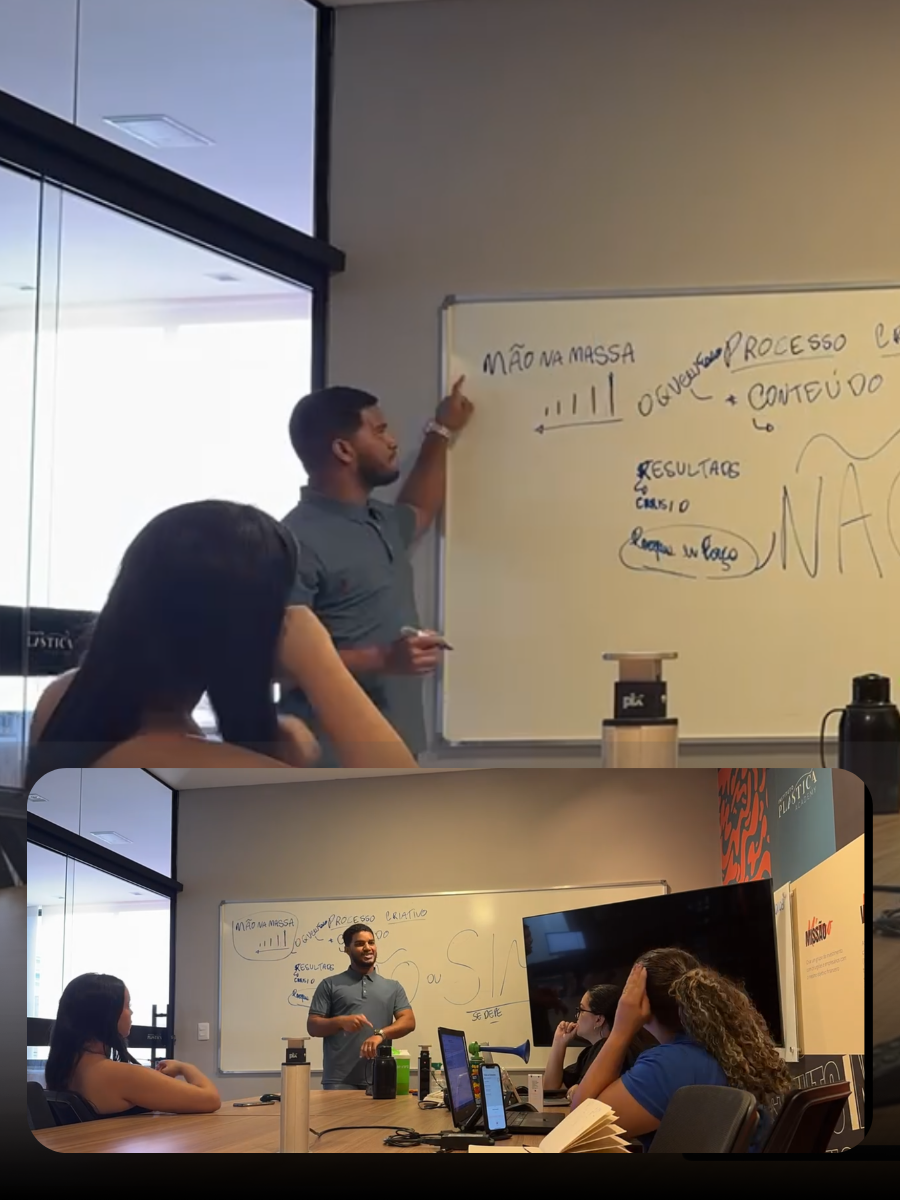
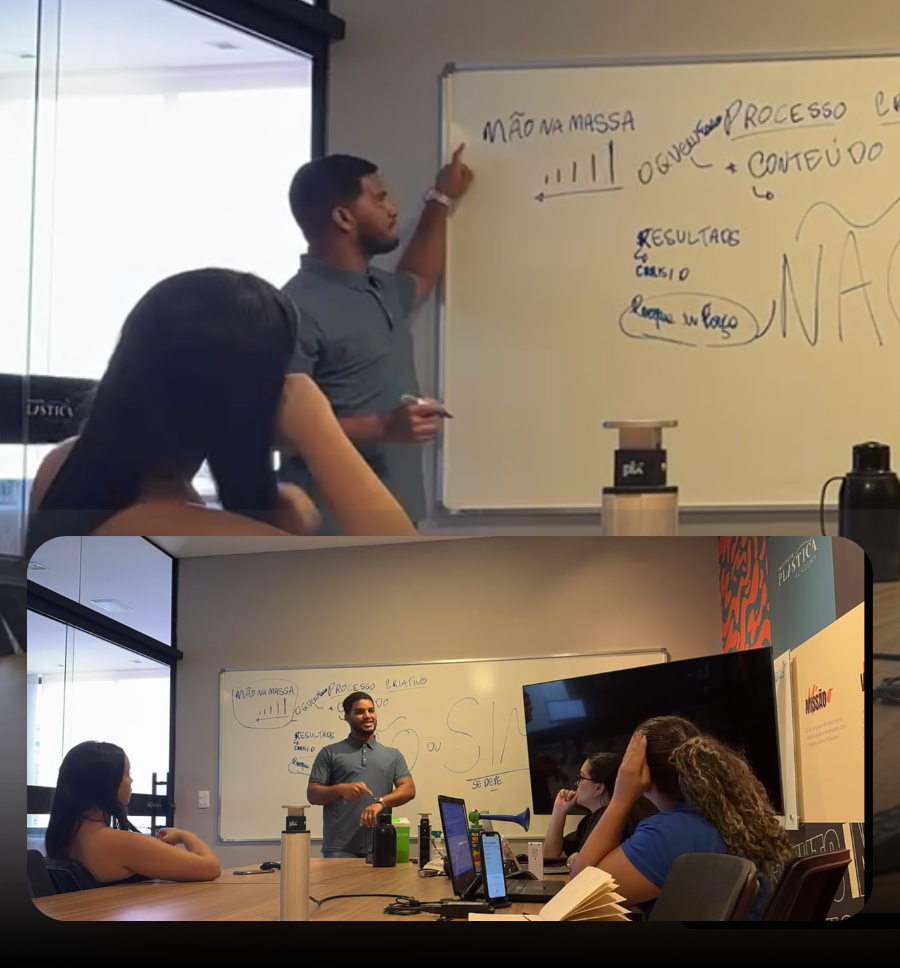
style: Ajusta CTA Final para fundo claro e atualiza foto de planejamento

diff --git a/index.html b/index.html
@@ -41,7 +41,9 @@
         <div class="container hero-container">
             <div class="hero-top-text fade-in-up">
                 <h1>Meu trabalho vai além de postar conteúdo.</h1>
-                <p>Sou Robson Reis, especialista em crescimento digital para médicos. Nos últimos +2 anos atuando no mercado médico, construí estratégias de conteúdo, lançamentos e posicionamento que geraram milhões de visualizações e múltiplos 6 dígitos.</p>
+                <p>Sou Robson Reis, especialista em crescimento digital para médicos. Nos últimos +2 anos atuando no
+                    mercado médico, construí estratégias de conteúdo, lançamentos e posicionamento que geraram milhões
+                    de visualizações e múltiplos 6 dígitos.</p>
                 <a href="#casos" class="btn btn-white">Quero ver os resultados <span class="arrow-circle">→</span></a>
             </div>
 
@@ -241,23 +243,28 @@
                 <!-- Estudos de Caso - Definidos uma única vez (Clonagem via JS para Infinite Scroll) -->
                 <div class="carousel-card" data-index="0">
                     <div class="c-bg">
-                        <img src="Fotos/printcanal.PNG" alt="YouTube Médico" style="object-fit: cover; object-position: top;">
+                        <img src="Fotos/printcanal.PNG" alt="YouTube Médico"
+                            style="object-fit: cover; object-position: top;">
                         <div class="c-overlay"></div>
                     </div>
                     <div class="c-content">
                         <h3>10M+ de Views no YouTube</h3>
-                        <p>Estratégia e gestão de conteúdo para canal médico que ultrapassou 10 milhões de visualizações. Crescimento consistente de audiência transformando o médico em referência nacional no digital.</p>
+                        <p>Estratégia e gestão de conteúdo para canal médico que ultrapassou 10 milhões de
+                            visualizações. Crescimento consistente de audiência transformando o médico em referência
+                            nacional no digital.</p>
                     </div>
                     <div class="c-arrow">→</div>
                 </div>
                 <div class="carousel-card" data-index="1">
                     <div class="c-bg">
-                        <img src="Fotos/excelene stories.png" alt="Gestão de Instagram" style="object-fit: cover; object-position: center;">
+                        <img src="Fotos/excelene stories.png" alt="Gestão de Instagram"
+                            style="object-fit: cover; object-position: center;">
                         <div class="c-overlay"></div>
                     </div>
                     <div class="c-content">
                         <h3>Gestão de Instagram</h3>
-                        <p>Gestão de Instagram com foco no que realmente importa: conteúdo que faz sentido para a paciente. Que conecta, gera identificação e transforma espectador em consulta marcada.</p>
+                        <p>Gestão de Instagram com foco no que realmente importa: conteúdo que faz sentido para a
+                            paciente. Que conecta, gera identificação e transforma espectador em consulta marcada.</p>
                     </div>
                     <div class="c-arrow">→</div>
                 </div>
@@ -268,7 +275,9 @@
                     </div>
                     <div class="c-content">
                         <h3>Direção "Casa de Plástico"</h3>
-                        <p>Dirigi o quadro "Casa de Plástico" aplicando técnicas narrativas que transformavam a jornada real da paciente em desejo de quem assistia. Gerando identificação, desejo e autoridade. Quem via, queria ser a próxima. +196 mil visualizações.</p>
+                        <p>Dirigi o quadro "Casa de Plástico" aplicando técnicas narrativas que transformavam a jornada
+                            real da paciente em desejo de quem assistia. Gerando identificação, desejo e autoridade.
+                            Quem via, queria ser a próxima. +196 mil visualizações.</p>
                     </div>
                     <div class="c-arrow">→</div>
                 </div>
@@ -279,7 +288,8 @@
                     </div>
                     <div class="c-content">
                         <h3>Lançamentos Digitais</h3>
-                        <p>Atuei na estratégia e execução de lançamentos digitais no mercado médico. Campanhas que transformaram eventos e produtos em 6 dígitos em menos de 24 horas de carrinho aberto.</p>
+                        <p>Atuei na estratégia e execução de lançamentos digitais no mercado médico. Campanhas que
+                            transformaram eventos e produtos em 6 dígitos em menos de 24 horas de carrinho aberto.</p>
                     </div>
                     <div class="c-arrow">→</div>
                 </div>
@@ -290,7 +300,9 @@
                     </div>
                     <div class="c-content">
                         <h3>Newsletter Estratégica</h3>
-                        <p>Newsletter com 2.500 aberturas semanais. Um canal ignorado pela maioria dos médicos — mas que gera os pacientes mais qualificados. Audiência proprietária que não depende do algoritmo. Resultado: pacientes fechando direto pelo e-mail.</p>
+                        <p>Newsletter com 2.500 aberturas semanais. Um canal ignorado pela maioria dos médicos — mas que
+                            gera os pacientes mais qualificados. Audiência proprietária que não depende do algoritmo.
+                            Resultado: pacientes fechando direto pelo e-mail.</p>
                     </div>
                     <div class="c-arrow">→</div>
                 </div>
@@ -301,15 +313,18 @@
                     </div>
                     <div class="c-content">
                         <h3>Cobertura de Eventos</h3>
-                        <p>Da estratégia de pré-aquecimento à cobertura em tempo real. Planejamento de conteúdo, filmagens, stories e reels ao vivo que transformavam cada evento em combustível de autoridade nas redes.</p>
+                        <p>Da estratégia de pré-aquecimento à cobertura em tempo real. Planejamento de conteúdo,
+                            filmagens, stories e reels ao vivo que transformavam cada evento em combustível de
+                            autoridade nas redes.</p>
                     </div>
                     <div class="c-arrow">→</div>
                 </div>
             </div>
-            
+
             <!-- Botão CTA Centralizado -->
             <div class="slider-cta">
-                <a href="https://wa.me/5563992609269" class="btn btn-dark-alpha rounded">Fale Comigo <span class="arrow-circle orange">→</span></a>
+                <a href="https://wa.me/5563992609269" class="btn btn-dark-alpha rounded">Fale Comigo <span
+                        class="arrow-circle orange">→</span></a>
             </div>
         </div>
     </section>
@@ -317,28 +332,35 @@
     <!-- 7. ANTES E DEPOIS (Coverflow Slider) -->
     <section class="ad-section section-beige" id="antes-depois" style="padding: var(--s-section) 0; overflow: hidden;">
         <div class="container met-header fade-in-up" style="text-align: center; max-width: 800px; margin: 0 auto;">
-            <h2 style="font-size: clamp(1.8rem, 4vw, 2.8rem);">O mesmo médico. O mesmo Instagram. A estratégia certa nos stories muda tudo.</h2>
+            <h2 style="font-size: clamp(1.8rem, 4vw, 2.8rem);">O mesmo médico. O mesmo Instagram. A estratégia certa nos
+                stories muda tudo.</h2>
         </div>
 
         <div class="coverflow-container fade-in-up delay-1">
             <!-- Intercalando Ante e Depois sequencialmente -->
-            <div class="cf-slide"><img src="Fotos/antesofc.png" alt="Antes 1"><span class="cf-badge badge-antes">Antes</span></div>
-            <div class="cf-slide"><img src="Fotos/DepoisOFC (1).png" alt="Depois 1"><span class="cf-badge badge-depois">Depois</span></div>
-            
-            <div class="cf-slide"><img src="Fotos/antesofc (1).png" alt="Antes 2"><span class="cf-badge badge-antes">Antes</span></div>
-            <div class="cf-slide"><img src="Fotos/DepoisOFC (2).png" alt="Depois 2"><span class="cf-badge badge-depois">Depois</span></div>
-            
-            <div class="cf-slide"><img src="Fotos/antesofc (2).png" alt="Antes 3"><span class="cf-badge badge-antes">Antes</span></div>
-            <div class="cf-slide"><img src="Fotos/DepoisOFC (3).png" alt="Depois 3"><span class="cf-badge badge-depois">Depois</span></div>
+            <div class="cf-slide"><img src="Fotos/antesofc.png" alt="Antes 1"><span
+                    class="cf-badge badge-antes">Antes</span></div>
+            <div class="cf-slide"><img src="Fotos/DepoisOFC (1).png" alt="Depois 1"><span
+                    class="cf-badge badge-depois">Depois</span></div>
+
+            <div class="cf-slide"><img src="Fotos/antesofc (1).png" alt="Antes 2"><span
+                    class="cf-badge badge-antes">Antes</span></div>
+            <div class="cf-slide"><img src="Fotos/DepoisOFC (2).png" alt="Depois 2"><span
+                    class="cf-badge badge-depois">Depois</span></div>
+
+            <div class="cf-slide"><img src="Fotos/antesofc (2).png" alt="Antes 3"><span
+                    class="cf-badge badge-antes">Antes</span></div>
+            <div class="cf-slide"><img src="Fotos/DepoisOFC (3).png" alt="Depois 3"><span
+                    class="cf-badge badge-depois">Depois</span></div>
         </div>
     </section>
 
     <!-- 7. CTA FINAL -->
-    <section class="cta-final section-dark" style="background: #111; padding: var(--s-section) 0; text-align: center;">
-        <div class="container fade-in-up" style="max-width: 700px; margin: 0 auto;">
-            <h2 style="font-size: clamp(2rem, 5vw, 3.5rem); color: #fff; margin-bottom: 1.5rem;">Pronto para transformar seu Instagram em referência?</h2>
-            <p style="color: #aaa; font-size: 1.1rem; margin-bottom: 2.5rem;">Se você é médico e quer crescer no digital com estratégia, conteúdo que conecta e resultados reais — vamos conversar.</p>
-            <a href="https://wa.me/5563992609269" class="btn btn-orange" style="font-size: 1.1rem; padding: 1rem 2.5rem;">Falar no WhatsApp →</a>
+    <section class="cta-final section-beige" style="text-align: center; padding: calc(var(--s-section) * 1.5) 0;">
+        <div class="container fade-in-up" style="max-width: 800px; margin: 0 auto;">
+            <h2 style="font-size: clamp(2rem, 5vw, 3.5rem); margin-bottom: 1.5rem;">Pronto para transformar seu Instagram em referência?</h2>
+            <p style="font-size: 1.25rem; margin-bottom: 3rem; color: var(--t-secondary);">Se você é médico e quer crescer no digital com estratégia, conteúdo que conecta e resultados reais vamos conversar.</p>
+            <a href="https://wa.me/5563992609269" class="btn btn-dark rounded" style="padding: 1.2rem 3rem; font-size: 1.1rem;">Falar no WhatsApp <span class="arrow">→</span></a>
         </div>
     </section>
 
